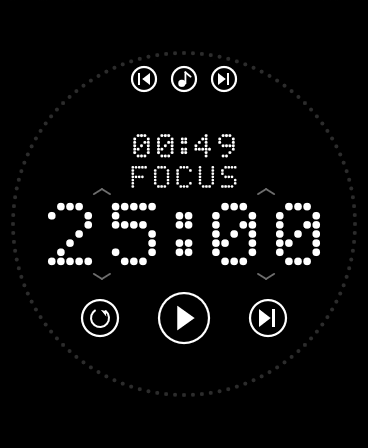
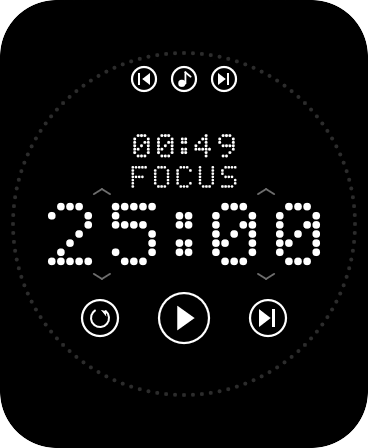
Better launcher screenshots: full faked shot, animated GIF, rounded corners
Full launcher capture with faked stats (no real SSID/carrier/contacts) plus missed-call/unread badges; animated GIF of the Volume/Brightness/Media rail switching and the marquee scroll; rounded corners to match the device screen.

diff --git a/README.md b/README.md
@@ -27,12 +27,18 @@ Third-party pieces (microG, YouTube, YouTube Music, Organic Maps, Gboard) are **
 see [`SETUP.md`](SETUP.md) for exactly how.
 
 ## Screenshots
-*(Shown with an OFL dot-matrix font — the original Nothing fonts are not redistributable; see
-[`FONTS.md`](FONTS.md).)*
+
+The launcher in motion — the right-edge rail switching **Volume → Brightness → Media** and a long Wi-Fi name
+marquee-scrolling (stats faked; no real network/contacts shown):
+
+<p align="center"><img src="docs/images/home.gif" width="280" alt="launcher demo"></p>
 
 | Home | Focus timer | Dialer |
 |------|-------------|--------|
 | ![home](docs/images/home.png) | ![focus](docs/images/focus.png) | ![dialer](docs/images/dialer.png) |
+
+*(Shown with an OFL dot-matrix font — the original Nothing fonts are not redistributable; see
+[`FONTS.md`](FONTS.md). Corners rounded to match the device's physical screen.)*
 
 ## Quick start
 